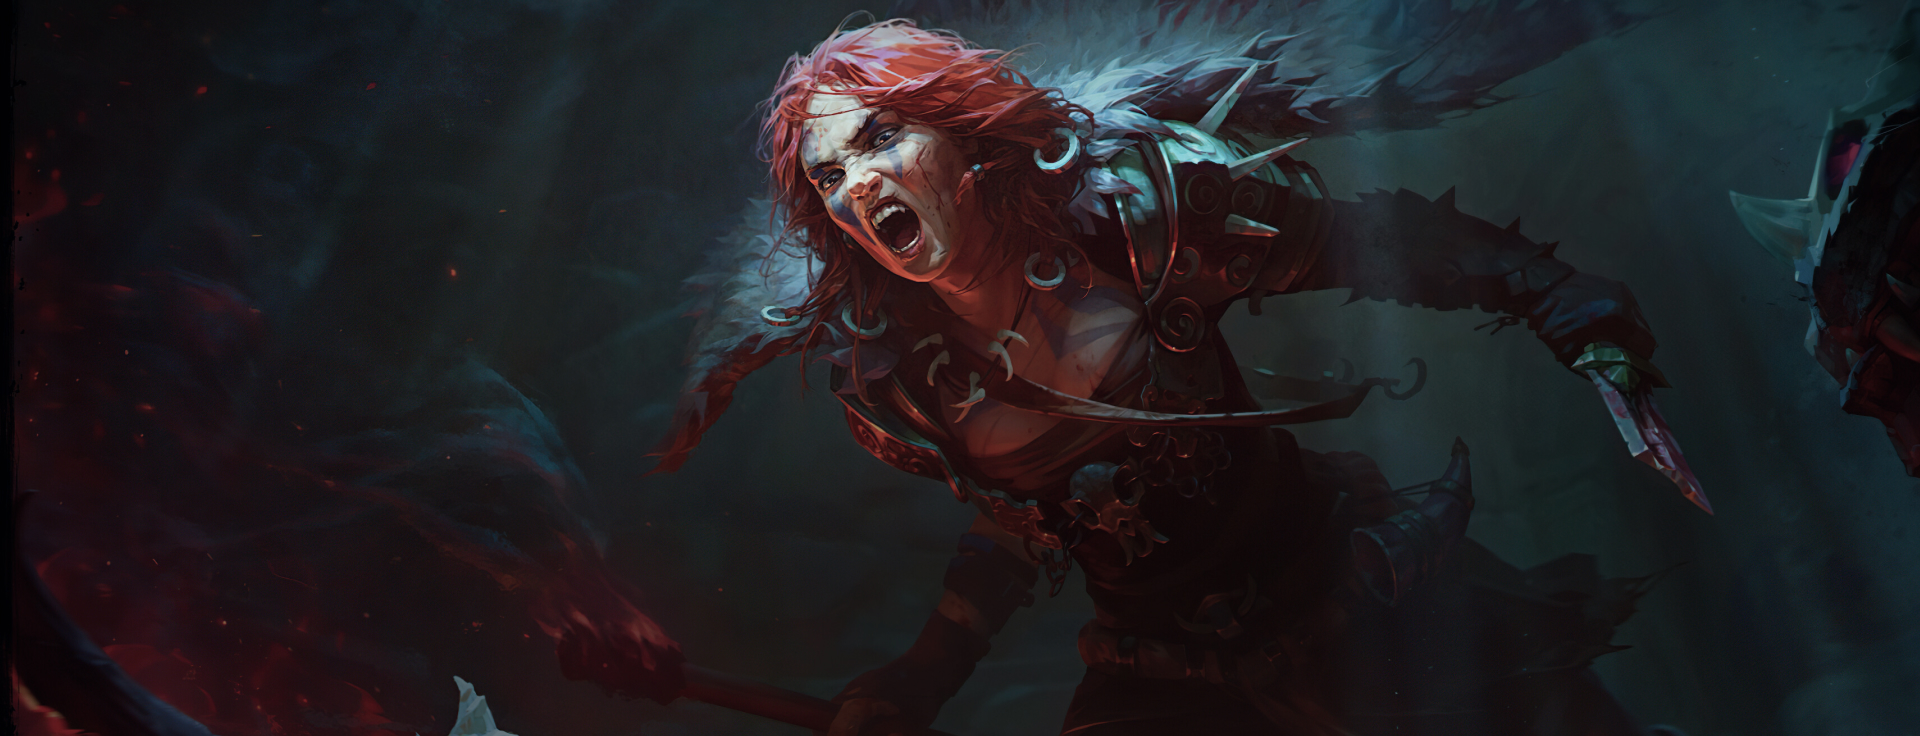
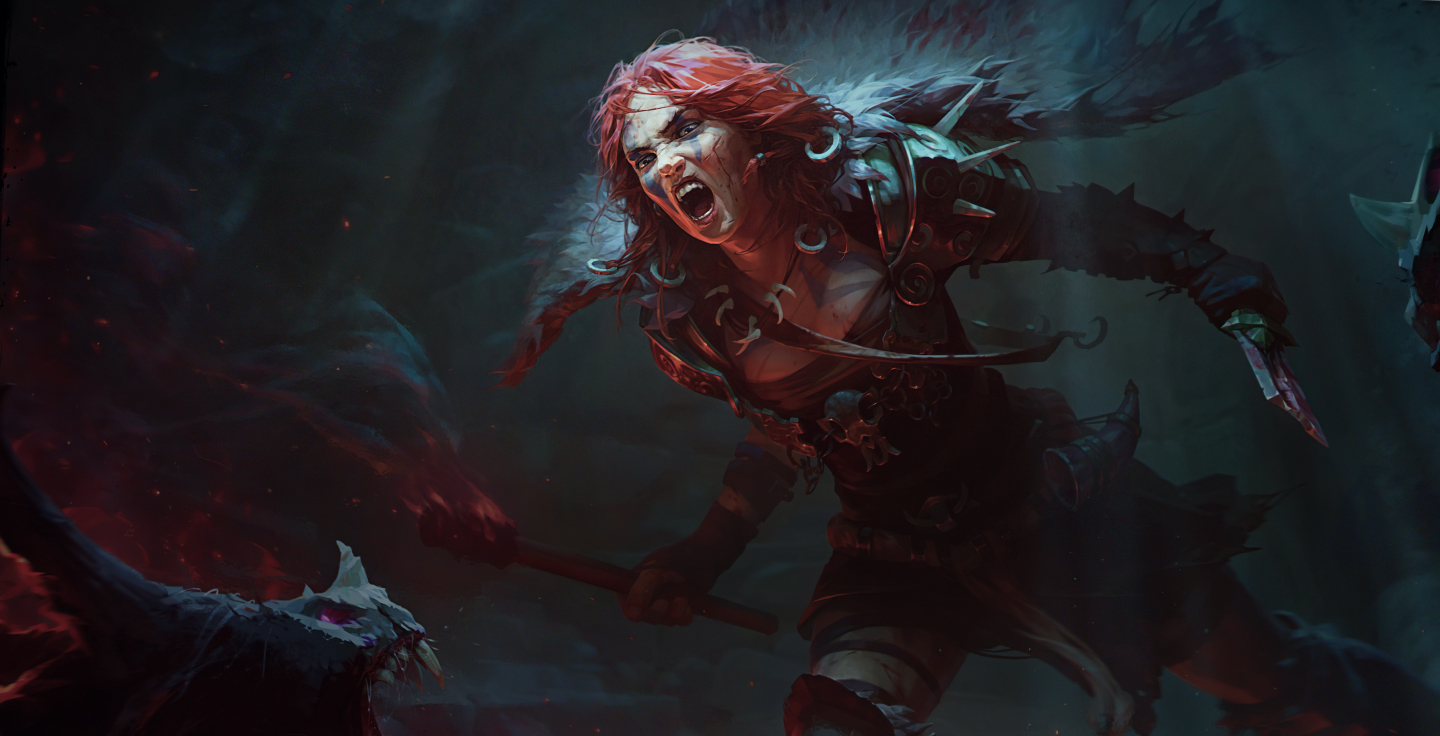
feat: create section hero

diff --git a/css/main.css b/css/main.css
@@ -1,1 +1,1 @@
-*{margin:0;padding:0;-webkit-box-sizing:border-box;box-sizing:border-box;text-decoration:none;list-style:none;font-family:"Poppins",sans-serif;color:#fff}html{font-size:62.5%}img{max-width:100%;display:block}button{cursor:pointer}body{background-color:#020203}.container{width:100%;max-width:1330px;padding:0 15px;margin:0 auto}.btn{display:-webkit-inline-box;display:-ms-inline-flexbox;display:inline-flex;-webkit-box-align:center;-ms-flex-align:center;align-items:center;gap:8px;padding:0 1.6rem;line-height:4rem;border-radius:4px;border:1px solid rgba(0,0,0,0);font-weight:500;font-size:1.4rem;text-align:center;color:#fff;-webkit-transition:all .3s;transition:all .3s}.btn-primary{background-color:#00aeff;border-color:#00aeff}.btn-primary:hover{background-color:#61cdff}.btn-outline{border-color:#fff}.btn-outline:hover{background-color:#fff;color:#0b0d12}.game-card{display:block;width:100%;max-width:28rem}.game-card .image{overflow:hidden;border-radius:4px;width:100%;height:38.4rem;margin-bottom:2.4rem}.game-card .image img{-webkit-transition:-webkit-transform .3s ease-in;transition:-webkit-transform .3s ease-in;transition:transform .3s ease-in;transition:transform .3s ease-in, -webkit-transform .3s ease-in}.game-card .image:hover img{-webkit-transform:scale(1.05);transform:scale(1.05)}.game-card .info h3{font-weight:600;font-size:2rem;line-height:2.9rem;color:#e5e5e5;margin-bottom:4px}.game-card .info span{font-weight:400;font-size:1.5rem;line-height:2.3rem;color:#e5e5e5;opacity:.8}header{position:relative;width:100%;height:9.6rem;border-bottom:1px solid rgba(255,255,255,.1);display:-webkit-box;display:-ms-flexbox;display:flex;-webkit-box-align:center;-ms-flex-align:center;align-items:center}header .container{display:-webkit-box;display:-ms-flexbox;display:flex;-webkit-box-align:center;-ms-flex-align:center;align-items:center;-webkit-box-pack:justify;-ms-flex-pack:justify;justify-content:space-between}header .left-container{display:-webkit-box;display:-ms-flexbox;display:flex;-webkit-box-align:center;-ms-flex-align:center;align-items:center;gap:11.2rem}header .left-container .logo::after{content:"";width:4.3rem;border-top:2px solid #00aeff;position:absolute;bottom:0}header .left-container nav ul{display:-webkit-box;display:-ms-flexbox;display:flex;gap:3.4rem}header .left-container nav ul li a{display:-webkit-box;display:-ms-flexbox;display:flex;gap:1.4rem;font-weight:500;font-size:1.4rem;line-height:2.1rem;color:#fff}header .right-container{display:-webkit-box;display:-ms-flexbox;display:flex;-webkit-box-align:center;-ms-flex-align:center;align-items:center;gap:1.6rem}
+*{margin:0;padding:0;-webkit-box-sizing:border-box;box-sizing:border-box;text-decoration:none;list-style:none;font-family:"Poppins",sans-serif;color:#fff}html{font-size:62.5%}img{max-width:100%;display:block}button{cursor:pointer;background:rgba(0,0,0,0);border:0}body{background-color:#020203}.container{width:100%;max-width:133rem;padding:0 15px;margin:0 auto}@media(max-width: 1440px){.container{max-width:124.6rem}}.btn{display:-webkit-inline-box;display:-ms-inline-flexbox;display:inline-flex;-webkit-box-align:center;-ms-flex-align:center;align-items:center;gap:8px;padding:0 1.6rem;line-height:4rem;border-radius:4px;border:1px solid rgba(0,0,0,0);font-weight:500;font-size:1.4rem;text-align:center;color:#fff;-webkit-transition:all .3s;transition:all .3s}.btn-primary{background-color:#00aeff;border-color:#00aeff}.btn-primary:hover{background-color:#61cdff}.btn-outline{border-color:#fff}.btn-outline:hover{background-color:#fff;color:#0b0d12}.game-card{display:block;width:100%;max-width:28rem}.game-card .image{overflow:hidden;border-radius:4px;width:100%;height:38.4rem;margin-bottom:2.4rem}.game-card .image img{-webkit-transition:-webkit-transform .3s ease-in;transition:-webkit-transform .3s ease-in;transition:transform .3s ease-in;transition:transform .3s ease-in, -webkit-transform .3s ease-in}.game-card .image:hover img{-webkit-transform:scale(1.05);transform:scale(1.05)}.game-card .info h3{font-weight:600;font-size:2rem;line-height:2.9rem;color:#e5e5e5;margin-bottom:4px}.game-card .info span{font-weight:400;font-size:1.5rem;line-height:2.3rem;color:#e5e5e5;opacity:.8}header{position:absolute;top:0;left:0;z-index:2;width:100%;height:9.6rem;border-bottom:1px solid rgba(255,255,255,.1);display:-webkit-box;display:-ms-flexbox;display:flex;-webkit-box-align:center;-ms-flex-align:center;align-items:center}header .container{display:-webkit-box;display:-ms-flexbox;display:flex;-webkit-box-align:center;-ms-flex-align:center;align-items:center;-webkit-box-pack:justify;-ms-flex-pack:justify;justify-content:space-between}header .left-container{display:-webkit-box;display:-ms-flexbox;display:flex;-webkit-box-align:center;-ms-flex-align:center;align-items:center;gap:11.2rem}header .left-container .logo::after{content:"";width:4.3rem;border-top:2px solid #00aeff;position:absolute;bottom:0}header .left-container nav ul{display:-webkit-box;display:-ms-flexbox;display:flex;gap:3.4rem}header .left-container nav ul li a{display:-webkit-box;display:-ms-flexbox;display:flex;gap:1.4rem;font-weight:500;font-size:1.4rem;line-height:2.1rem;color:#fff}header .right-container{display:-webkit-box;display:-ms-flexbox;display:flex;-webkit-box-align:center;-ms-flex-align:center;align-items:center;gap:1.6rem}.s-hero{position:relative}.s-hero .slide-principal{width:100%;height:73.6rem}.s-hero .slide-principal .swiper-wrapper .swiper-slide{padding-top:17.3rem}.s-hero .slide-principal .swiper-wrapper .swiper-slide.slide-01{background:url("../assets/banner-slide-01.jpg") no-repeat center center}@media(min-width: 1441px){.s-hero .slide-principal .swiper-wrapper .swiper-slide.slide-01{background-size:cover;background-position-y:top}}.s-hero .slide-principal .swiper-wrapper .swiper-slide.slide-02{background:url("../assets/banner-slide-02.jpg") no-repeat center center}@media(min-width: 1441px){.s-hero .slide-principal .swiper-wrapper .swiper-slide.slide-02{background-size:cover;background-position-y:top}}.s-hero .slide-principal .swiper-wrapper .swiper-slide.slide-03{background:url("../assets/banner-slide-03.jpg") no-repeat center center}@media(min-width: 1441px){.s-hero .slide-principal .swiper-wrapper .swiper-slide.slide-03{background-size:cover;background-position-y:top}}.s-hero .slide-principal .swiper-wrapper .swiper-slide .container{display:-webkit-box;display:-ms-flexbox;display:flex;-webkit-box-align:center;-ms-flex-align:center;align-items:center;-webkit-box-pack:justify;-ms-flex-pack:justify;justify-content:space-between}.s-hero .slide-principal .swiper-wrapper .swiper-slide .left-content{margin-left:19.7rem;width:100%;max-width:62.3rem}.s-hero .slide-principal .swiper-wrapper .swiper-slide .left-content h2{font-weight:700;font-size:6.4rem;line-height:110.2%;color:#fff;margin-bottom:1.6rem}.s-hero .slide-principal .swiper-wrapper .swiper-slide .left-content p{font-weight:400;font-size:1.8rem;line-height:27px;letter-spacing:-0.005em;color:#fff;margin-bottom:3.2rem}.s-hero .slide-principal .swiper-wrapper .swiper-slide .left-content button{padding:0 32px;line-height:52px;font-size:1.6rem;font-weight:600}.s-hero .slide-principal .swiper-wrapper .swiper-slide .right-content{width:100%;max-width:29.2rem}.s-hero .slide-principal .swiper-wrapper .swiper-slide .right-content .logo{width:100%;max-width:28rem;height:18rem;display:-webkit-box;display:-ms-flexbox;display:flex;-webkit-box-align:center;-ms-flex-align:center;align-items:center;-webkit-box-pack:center;-ms-flex-pack:center;justify-content:center;margin-bottom:11.2rem}.s-hero .slide-principal .swiper-wrapper .swiper-slide .right-content .video{width:100%;max-width:28rem}.s-hero .slide-principal .swiper-wrapper .swiper-slide .right-content .video span{display:block;text-align:right;margin-bottom:1.6rem;font-weight:600;font-size:1.3rem;line-height:20px;text-transform:uppercase;color:#fff}.s-hero .slide-principal .swiper-wrapper .swiper-slide .right-content .video .btn-video{width:100%;height:15.8rem;border-radius:4px;overflow:hidden;position:relative;display:-webkit-box;display:-ms-flexbox;display:flex;-webkit-box-align:center;-ms-flex-align:center;align-items:center;-webkit-box-pack:center;-ms-flex-pack:center;justify-content:center}.s-hero .slide-principal .swiper-wrapper .swiper-slide .right-content .video .btn-video .thumb{position:absolute;top:0;left:0;width:100%;height:100%;-o-object-fit:cover;object-fit:cover;-webkit-transition:opacity .3s;transition:opacity .3s}.s-hero .slide-principal .swiper-wrapper .swiper-slide .right-content .video .btn-video .thumb.default{opacity:1}.s-hero .slide-principal .swiper-wrapper .swiper-slide .right-content .video .btn-video .thumb.hover{opacity:0}.s-hero .slide-principal .swiper-wrapper .swiper-slide .right-content .video .btn-video .thumb:hover.default{opacity:0}.s-hero .slide-principal .swiper-wrapper .swiper-slide .right-content .video .btn-video .thumb:hover.hover{opacity:1}.s-hero .slide-principal .swiper-wrapper .swiper-slide .right-content .video .btn-video .icon{position:relative;z-index:1;width:51px;height:51px;border-radius:50%;display:-webkit-box;display:-ms-flexbox;display:flex;-webkit-box-align:center;-ms-flex-align:center;align-items:center;-webkit-box-pack:center;-ms-flex-pack:center;justify-content:center;pointer-events:none;background:linear-gradient(136.72deg, rgba(7, 7, 10, 0.86) 19.22%, rgba(15, 16, 22, 0.5) 76.59%);-webkit-backdrop-filter:blur(3px);backdrop-filter:blur(3px)}.s-hero .slide-thumbnail{position:absolute;top:24.1rem;left:calc((100% - 131.5rem)/2);z-index:2;height:32rem}.s-hero .slide-thumbnail .swiper-wrapper .swiper-slide{width:4.8rem;height:4.8rem !important;cursor:pointer;-webkit-filter:grayscale(100%);filter:grayscale(100%)}.s-hero .slide-thumbnail .swiper-wrapper .swiper-slide.disabled{pointer-events:none}.s-hero .slide-thumbnail .swiper-wrapper .swiper-slide-thumb-active{-webkit-filter:grayscale(0);filter:grayscale(0)}

diff --git a/scss/_home.scss b/scss/_home.scss
@@ -1,0 +1,188 @@
+.s-hero {
+  position: relative;
+
+  .slide-principal {
+    width: 100%;
+    height: 73.6rem;
+
+    .swiper-wrapper {
+      .swiper-slide {
+        padding-top: 17.3rem;
+
+        &.slide-01 {
+          background: url("../assets/banner-slide-01.jpg") no-repeat center center;
+
+          @media (min-width: 1441px) {
+            background-size: cover;
+            background-position-y: top;
+          }
+        }
+
+        &.slide-02 {
+          background: url("../assets/banner-slide-02.jpg") no-repeat center center;
+
+          @media (min-width: 1441px) {
+            background-size: cover;
+            background-position-y: top;
+          }
+        }
+
+        &.slide-03 {
+          background: url("../assets/banner-slide-03.jpg") no-repeat center center;
+
+          @media (min-width: 1441px) {
+            background-size: cover;
+            background-position-y: top;
+          }
+        }
+
+        .container {
+          display: flex;
+          align-items: center;
+          justify-content: space-between;
+        }
+
+        .left-content {
+          margin-left: 19.7rem;
+          width: 100%;
+          max-width: 62.3rem;
+
+          h2 {
+            font-weight: 700;
+            font-size: 6.4rem;
+            line-height: 110.2%;
+            color: #FFFFFF;
+            margin-bottom: 1.6rem;
+          }
+
+          p {
+            font-weight: 400;
+            font-size: 1.8rem;
+            line-height: 27px;
+            letter-spacing: -0.005em;
+            color: #FFFFFF;
+            margin-bottom: 3.2rem;
+          }
+
+          button {
+            padding: 0 32px;
+            line-height: 52px;
+            font-size: 1.6rem;
+            font-weight: 600;
+          }
+        }
+
+        .right-content {
+          width: 100%;
+          max-width: 29.2rem;
+
+          .logo {
+            width: 100%;
+            max-width: 28rem;
+            height: 18rem;
+            display: flex;
+            align-items: center;
+            justify-content: center;
+            margin-bottom: 11.2rem;
+          }
+
+          .video {
+            width: 100%;
+            max-width: 28rem;
+
+            span {
+              display: block;
+              text-align: right;
+              margin-bottom: 1.6rem;
+  
+              font-weight: 600;
+              font-size: 1.3rem;
+              line-height: 20px;
+              text-transform: uppercase;
+              color: #FFFFFF;
+            }
+
+            .btn-video {
+              width: 100%;
+              height: 15.8rem;
+              border-radius: 4px;
+              overflow: hidden;
+              position: relative;
+              display: flex;
+              align-items: center;
+              justify-content: center;
+
+              .thumb {
+                position: absolute;
+                top: 0;
+                left: 0;
+                width: 100%;
+                height: 100%;
+                object-fit: cover;
+                transition: opacity .3s;
+
+                &.default {
+                  opacity: 1;
+                }
+
+                &.hover {
+                  opacity: 0;
+                }
+
+                &:hover {
+                  &.default {
+                    opacity: 0;
+                  }
+  
+                  &.hover {
+                    opacity: 1;
+                  }
+                }
+              }
+
+              .icon {
+                position: relative;
+                z-index: 1;
+                width: 51px;
+                height: 51px;
+                border-radius: 50%;
+                display: flex;
+                align-items: center;
+                justify-content: center;
+                pointer-events: none;
+
+                background: linear-gradient(136.72deg, rgba(7, 7, 10, 0.86) 19.22%, rgba(15, 16, 22, 0.5) 76.59%);
+                backdrop-filter: blur(3px);
+              }
+            }
+          }
+        }
+      }
+    }
+  }
+
+  .slide-thumbnail {
+    position: absolute;
+    top: 24.1rem;
+    left: calc((100% - 131.5rem) / 2);
+    z-index: 2;
+    height: 32rem;
+
+    .swiper-wrapper {
+      .swiper-slide {
+        width: 4.8rem;
+        height: 4.8rem !important;
+        cursor: pointer;
+        filter: grayscale(100%);
+
+        &.disabled {
+          pointer-events: none;
+        }
+
+        &-thumb-active {
+          filter: grayscale(0);
+        }
+      }
+    }
+  }
+}

diff --git a/index.html b/index.html
@@ -74,6 +74,134 @@
     </div>
   </header>
 
+  <section class="s-hero">
+    <div class="slide-thumbnail">
+      <div class="swiper-wrapper">
+        <div class="swiper-slide">
+          <img src="./assets/logo-xs-diablo-iv.png" alt="Diablo IV">
+        </div>
+
+        <div class="swiper-slide">
+          <img src="./assets/logo-xs-heartstone.png" alt="Heartstone">
+        </div>
+
+        <div class="swiper-slide">
+          <img src="./assets/logo-xs-ww.png" alt="Warcraft">
+        </div>
+
+        <div class="swiper-slide disabled">
+          <img src="./assets/logo-xs-diablo-imortal.png" alt="Diablo Imortal">
+        </div>
+
+        <div class="swiper-slide disabled">
+          <img src="./assets/logo-starcraft-ii.png" alt="Starcraft">
+        </div>
+      </div>
+    </div>
+
+    <div class="slide-principal">
+      <div class="swiper-wrapper">
+        <div class="swiper-slide slide-01">
+          <div class="container">
+            <div class="left-content">
+              <h2>Retorna à escuridão com o game Diablo IV</h2>
+              <p>O retorno de Lilith traz uma era de escuridão e sofrimento</p>
+  
+              <button class="btn btn-primary"> 
+                Jogue agora
+              </button>
+            </div>
+
+            <div class="right-content">
+              <div class="logo">
+                <img src="./assets/logo-default-diablo-iv.png" alt="Diablo IV">
+              </div>
+
+              <div class="video">
+                <span>Assista o trailer</span>
+
+                <button class="btn-video">
+                  <img src="./assets/thumb-diablo.jpg" class="thumb default" alt="Diablo IV">
+
+                  <img src="./assets/gifs/giphy.gif" class="thumb hover" alt="Diablo IV">
+
+                  <div class="icon">
+                    <img src="./assets/icon-play.svg" alt="Ícone play">
+                  </div>
+                </button>
+              </div>
+            </div>
+          </div>
+        </div>
+
+        <div class="swiper-slide slide-02">
+          <div class="container">
+            <div class="left-content">
+              <h2>Novo pacote de expansão de Hearthstone</h2>
+              <p>A Horda e a Aliança se encontraram no Vale Alterac para lutar</p>
+  
+              <button class="btn btn-primary">
+                Reserve agora na pré-venda
+              </button>
+            </div>
+
+            <div class="right-content">
+              <div class="logo">
+                <img src="./assets/logo-default-hearthstone.png" alt="Hearthstone">
+              </div>
+
+              <div class="video">
+                <span>Assista o trailer</span>
+
+                <button class="btn-video">
+                  <img src="./assets/thumb-hearthstone.jpg" class="thumb default" alt="Hearthstone">
+
+                  <img src="./assets/gifs/heartstone.gif" class="thumb hover" alt="Hearthstone">
+
+                  <div class="icon">
+                    <img src="./assets/icon-play.svg" alt="Ícone play">
+                  </div>
+                </button>
+              </div>
+            </div>
+          </div>
+        </div>
+
+        <div class="swiper-slide slide-03">
+          <div class="container">
+            <div class="left-content">
+              <h2>Desbrave as Terras Sombrias em Shadowlands! </h2>
+              <p>O que jaz além do mundo que você conhece?</p>
+  
+              <button class="btn btn-primary">
+                Reserve agora na pré-venda
+              </button>
+            </div>
+
+            <div class="right-content">
+              <div class="logo">
+                <img src="./assets/logo-default-ww.png" alt="Warcraft">
+              </div>
+
+              <div class="video">
+                <span>Assista o trailer</span>
+
+                <button class="btn-video">
+                  <img src="./assets/thumb-warcraft.jpg" class="thumb default" alt="Warcraft">
+
+                  <img src="./assets/gifs/bolvar-sylvanas.gif" class="thumb hover" alt="Warcraft">
+
+                  <div class="icon">
+                    <img src="./assets/icon-play.svg" alt="Ícone play">
+                  </div>
+                </button>
+              </div>
+            </div>
+          </div>
+        </div>
+      </div>
+    </div>
+  </section>
 
 
   <script src="./js/plugins.js"></script>

diff --git a/js/scripts/main.js b/js/scripts/main.js
@@ -1,0 +1,17 @@
+var slideThumb = new Swiper(".slide-thumbnail", {
+  slidesPerView: 5,
+  direction: 'vertical',
+  spaceBetween: 20,
+  watchSlidesProgress: true
+});
+
+var slideHero = new Swiper(".slide-principal", {
+  effect: 'fade',
+  thumbs: {
+    swiper: slideThumb
+  },
+  autoplay: {
+    delay: 5000,
+    disableOnInteraction: false
+  }
+});

diff --git a/js/all.js b/js/all.js
@@ -1,0 +1,1 @@
+"use strict";var slideThumb=new Swiper(".slide-thumbnail",{slidesPerView:5,direction:"vertical",spaceBetween:20,watchSlidesProgress:!0}),slideHero=new Swiper(".slide-principal",{effect:"fade",thumbs:{swiper:slideThumb},autoplay:{delay:5e3,disableOnInteraction:!1}});

diff --git a/scss/_header.scss b/scss/_header.scss
@@ -1,5 +1,8 @@
 header {
-  position: relative;
+  position: absolute;
+  top: 0;
+  left: 0;
+  z-index: 2;
   width: 100%;
   height: 9.6rem;
   border-bottom: 1px solid rgba(255, 255, 255, 0.1);

diff --git a/scss/_container.scss b/scss/_container.scss
@@ -1,6 +1,10 @@
 .container {
   width: 100%;
-  max-width: 1330px;
+  max-width: 133rem;
   padding: 0 15px;
   margin: 0 auto;
+
+  @media(max-width: 1440px) {
+    max-width: 124.6rem;
+  }
 }

diff --git a/scss/_reset.scss b/scss/_reset.scss
@@ -19,6 +19,8 @@ img {
 
 button {
   cursor: pointer;
+  background: transparent;
+  border: 0;
 }
 
 body {

diff --git a/scss/main.scss b/scss/main.scss
@@ -3,3 +3,4 @@
 @import 'container';
 @import 'patterns';
 @import 'header';
+@import 'home';
